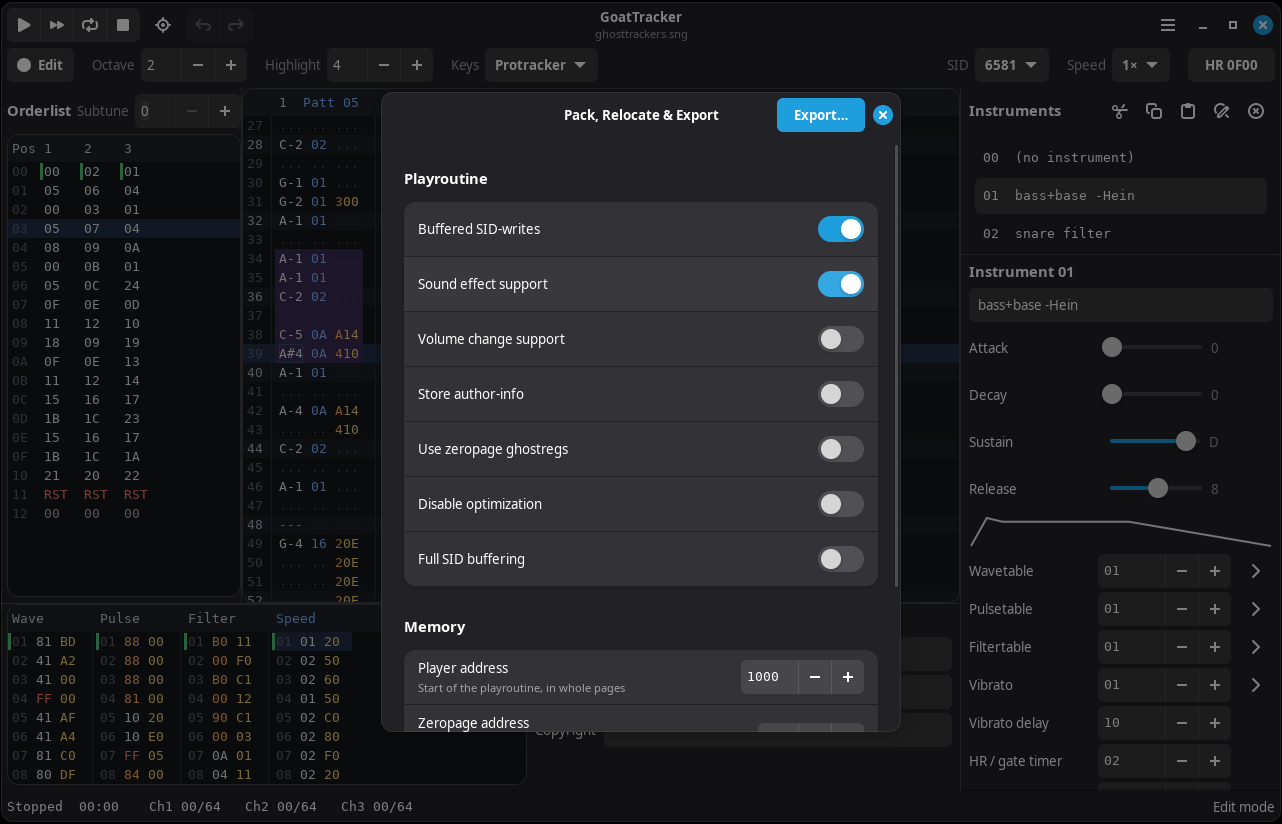
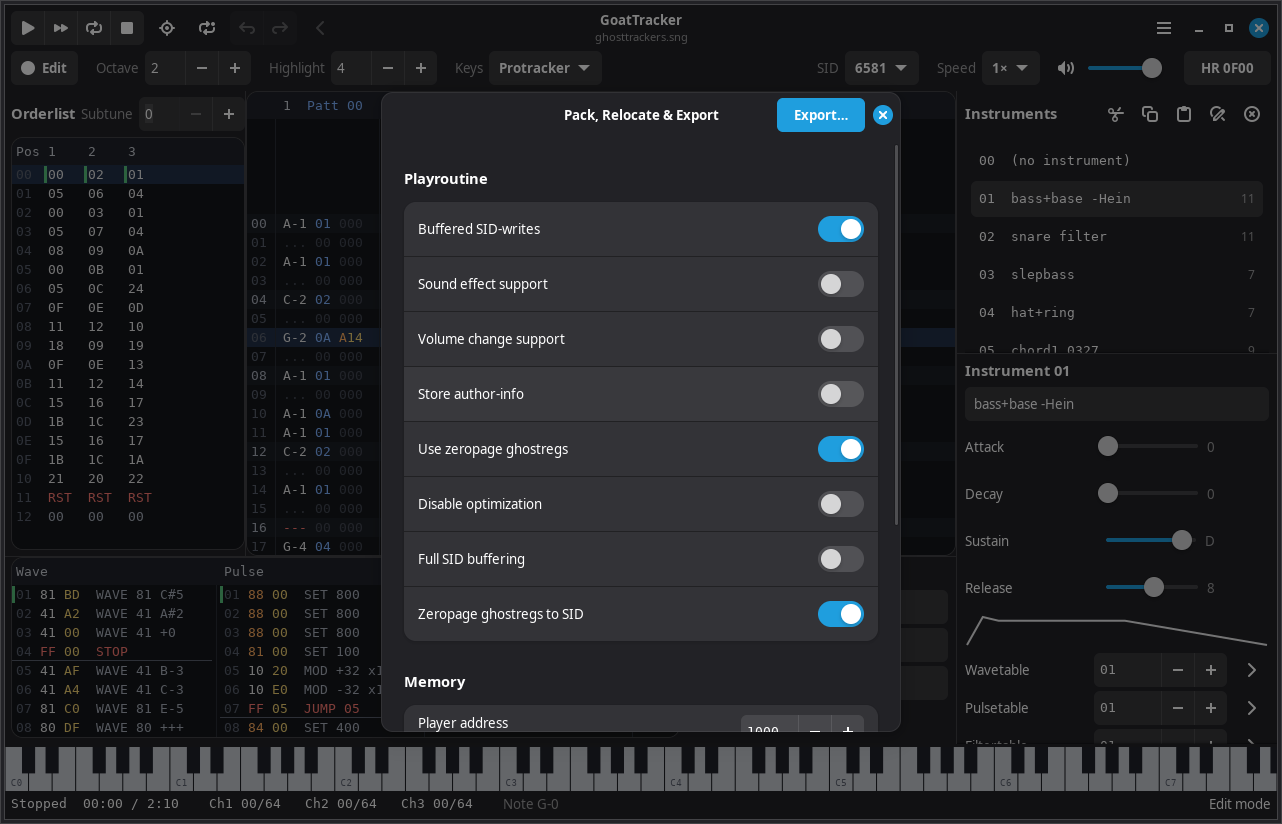
Bring the README up to date with the GoatTracker Ultra features
- New screenshots of the main menu, View menu and export dialog.
- Mention the new rows in the before-and-after table, the piano keyboard
  in the layout, the new Preferences settings, the header bar and
  toolbar additions, and the song length in the status bar.
- Correct "What stays the same": songs now carry the editor-settings
  block, there are new shortcuts, jam mode releases notes, and gt2reloc
  takes -Q1 and -K1.
- Move the waveform screenshot out of the middle of a list.

diff --git a/README.md b/README.md
@@ -18,13 +18,15 @@ This is an unofficial port of GoatTracker v2.77. The engine and song data are un
 | A home-made text-mode file selector | The desktop's file chooser |
 | Packer options chosen with cursor keys on a text screen | A settings dialog with a report of the packed sizes |
 | Help is a text screen scrolled with the cursor keys | A help window with headed sections, scrolled with the mouse or keyboard |
+| Hearing a song outside the editor means packing it and playing it elsewhere | WAV export, with optional per-channel stems |
+| Jam mode plays one note at a time | Polyphonic jam across the three channels, plus MIDI input |
 | SDL 1.2 (no longer maintained) | GTK4, libadwaita and SDL2 audio |
 
 ## What's new
 
 ### A tracker layout you can see all at once
 
-Orderlists on the left, patterns in the middle, instruments down the right, and the wave, pulse, filter and speed tables along the bottom, all visible together and all live while the song plays. Panels are separated by draggable dividers.
+Orderlists on the left, patterns in the middle, instruments down the right, the wave, pulse, filter and speed tables along the bottom, and a piano keyboard showing what each channel is playing, all visible together and all live while the song plays. Panels are separated by draggable dividers.
 
 All three grid editors work with the mouse:
 
@@ -58,11 +60,11 @@ Table commands and jumps are coloured, and a green bar marks where the selected 
 - **Rows are described** next to their hex values: `WAVE 41 +0`, `DELAY 3`, `SET 800`, `MOD +32 x16`, `LP RES C CH 1`, `JUMP 05`. **View → Describe Table Rows** turns the column off; in a narrow window the tables scroll sideways instead.
 - **Rows nothing can reach are dimmed.** The editor follows every instrument's table pointers, the table commands in the patterns and the wavetable's own commands, so leftover data stands out. A line under each jump or stop shows where a run of rows ends.
 - **Edit Waveform…** in the wavetable's right-click menu sets a row's waveform with buttons for noise, pulse, saw, triangle, test, ring, sync and gate. The pencil next to the instrument's **1st frame wave** does the same.
-
-![Waveform editor on a wavetable row](docs/screenshots/waveform.png)
 - **Go back:** after RETURN takes you from a pattern command or instrument to its table data (or from a note to its instrument), **Alt+Left** or the arrow in the header bar returns you to where you were.
 
 ![Tables and song information](docs/screenshots/tables.png)
+
+![Waveform editor on a wavetable row](docs/screenshots/waveform.png)
 
 ### A native instrument editor
 
@@ -110,7 +112,7 @@ Songs are saved with the editor-settings block that [GoatTracker Ultra](https://
 
 ### Preferences
 
-The settings that used to be command-line options or hand edits to `goattrk2.cfg` are in **Preferences** (Ctrl+,): buffer length, mixing rate, SID emulation and interpolation, PAL/NTSC timing, HardSID and CatWeasel, the playroutine optimisations, and the backup interval. `goattrk2.cfg` keeps its stock format; settings of this edition go in `~/.goattrk/gtkedition.ini`.
+The settings that used to be command-line options or hand edits to `goattrk2.cfg` are in **Preferences** (Ctrl+,): buffer length, mixing rate, SID emulation and interpolation, PAL/NTSC timing, HardSID and CatWeasel, and the playroutine optimisations. It also has the settings new to this edition: volume, detune, MIDI input, the backup interval and continuing into the next pattern. `goattrk2.cfg` keeps its stock format; settings of this edition go in `~/.goattrk/gtkedition.ini`.
 
 ### WAV export and song length
 
@@ -134,9 +136,9 @@ The settings that used to be command-line options or hand edits to `goattrk2.cfg
 
 ### Menus, toolbar and status bar
 
-- **Header bar:** transport controls, follow-play, and undo/redo.
-- **Toolbar:** edit/jam mode, octave, row highlight step, note-entry layout (Protracker, DMC or Janko), SID model, speed multiplier and the hard-restart ADSR. These used to be hidden behind Shift+F-key combinations.
-- **Status bar:** playback time, each channel's position, and a plain-language description of the item under the cursor. For example, `F0C` reads "Tempo 12 on all channels", and a table row reads "Set pulse width 840".
+- **Header bar:** transport controls, follow-play, loop, undo/redo, and the arrow that goes back after a jump to table or instrument data.
+- **Toolbar:** edit/jam mode, octave, row highlight step, note-entry layout (Protracker, DMC or Janko), SID model, speed multiplier, playback volume and the hard-restart ADSR. These used to be hidden behind Shift+F-key combinations.
+- **Status bar:** playback time and song length, each channel's position, and a plain-language description of the item under the cursor. For example, `F0C` reads "Tempo 12 on all channels", and a table row reads "Set pulse width 840".
 - **Instrument list:** shows how many patterns use each instrument, and dims unused ones.
 
 | Main menu | View menu |
@@ -180,12 +182,14 @@ The grids use a scalable monospace font. **View → Larger Text** (or `-w2`…`-
 
 - **Keyboard:** every key command from the original works, in the editor it belongs to. The full reference is in [readme.txt](readme.txt) section 2.3, or press **F12**. The few differences:
   - Ctrl+Z and Ctrl+Y are undo and redo. Ctrl otherwise still doubles as Shift; Shift+Z still cycles auto-advance.
+  - New shortcuts: Ctrl+S saves, Ctrl+, opens Preferences, Ctrl+F9 exports again, Ctrl+Enter in the orderlist plays from that position, Shift+F11 exports a WAV, and Alt+Left goes back. Where the original treated these Ctrl keys as Shift, the Shift versions still do the classic thing; Shift+F11 used to be the same as F11 (save).
+  - In jam mode, notes stop when their key is released, and several keys can sound at once.
   - Tab cycles between the editors.
   - Text fields keep their own keys, except the function keys.
-- **Files:** `.sng` and `.ins` files are untouched in format, and so is the settings file `~/.goattrk/goattrk2.cfg`.
+- **Files:** `.sng` and `.ins` files keep the stock format, and stock GoatTracker 2 loads songs saved here. The only addition is the editor-settings block at the end of a song (see above), which it ignores. The settings file `~/.goattrk/goattrk2.cfg` is unchanged too.
 - **Command line:** the same options as before (`goattrk2 song.sng -s1 -e1` and so on). `-w` now sets the text size, and `-??` opens the help window at startup.
 - **Sound:** the same reSID and reSID-fp emulation, and the same playroutine, timing and packer.
-- **Tools:** `gt2reloc`, `ins2snd2`, `sngspli2` and `mod2sng` are built alongside the editor and behave as before.
+- **Tools:** `gt2reloc`, `ins2snd2`, `sngspli2` and `mod2sng` are built alongside the editor and behave as before. `gt2reloc` also accepts the two new packing options, `-Q1` and `-K1`.
 
 ## Building
 
